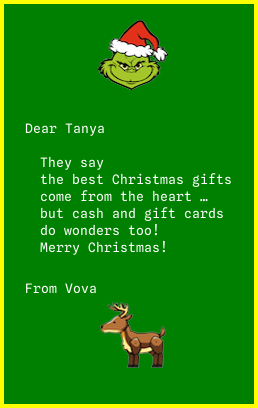
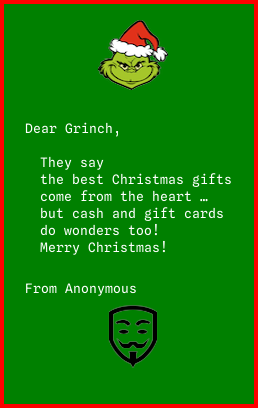
readme fix

Changed region(s): [[0.0, 0.0, 1.0, 1.0], [0.2481, 0.6765, 0.6512, 0.9118], [0.2481, 0.2941, 0.4341, 0.3529]]

diff --git a/app/generator.py b/app/generator.py
@@ -28,7 +28,6 @@ class XmasGenerator:
         self._footer_icon = footer_icon
 
         self._output_file = output_file
-
         self._assets_dir = assets_dir
         self._fonts_dir = fonts_dir
 
@@ -37,54 +36,12 @@ class XmasGenerator:
 
         self._draw = ImageDraw.Draw(self._image)
 
-        self._header_map = {
-            HeaderIcon.hat: self._draw_hat,
-            HeaderIcon.tree: self._draw_tree,
-            HeaderIcon.bell: self._draw_bell,
-            HeaderIcon.grinch: self._draw_grinch,
-            HeaderIcon.gift: self._draw_gift,
-            HeaderIcon.door_deco: self._draw_door_deco,
-        }
-
-        self._footer_map = {
-            FooterIcon.ribbon: self._draw_ribbon,
-            FooterIcon.deer: self._draw_deer,
-            FooterIcon.candy: self._draw_candy,
-        }
-
-    def _draw_hat(self) -> None:
-        icon = Image.open(os.path.join(self._assets_dir, HeaderIcon.hat))
-        icon = icon.resize((60, 60))
-        self._image.paste(icon, (102, 20), icon)
-
-    def _draw_tree(self) -> None:
-        icon = Image.open(os.path.join(self._assets_dir, HeaderIcon.tree))
-        icon = icon.resize((70, 70))
-        self._image.paste(icon, (98, 20), icon)
-
-    def _draw_bell(self) -> None:
-        icon = Image.open(os.path.join(self._assets_dir, HeaderIcon.bell))
-        icon = icon.resize((70, 70))
-        self._image.paste(icon, (98, 20), icon)
-
-    def _draw_grinch(self) -> None:
-        icon = Image.open(os.path.join(self._assets_dir, HeaderIcon.grinch))
-        icon = icon.resize((70, 70))
-        self._image.paste(icon, (98, 20), icon)
-
-    def _draw_gift(self) -> None:
-        icon = Image.open(os.path.join(self._assets_dir, HeaderIcon.gift))
-        icon = icon.resize((70, 70))
-        self._image.paste(icon, (98, 20), icon)
-
-    def _draw_door_deco(self) -> None:
-        icon = Image.open(os.path.join(self._assets_dir, HeaderIcon.door_deco))
-        icon = icon.resize((70, 70))
-        self._image.paste(icon, (98, 20), icon)
-
     def _draw_header(self) -> None:
-        self._header_map[self._header_icon]()
-        msg = f'Dear {self._receiver}'
+        icon = Image.open(os.path.join(self._assets_dir, self._header_icon))
+        icon = icon.resize((70, 70))
+        self._image.paste(icon, (98, 20), icon)
+
+        msg = f'Dear {self._receiver},'
 
         self._draw.text((25, 120), msg, self._text_color, font=self._font)
 
@@ -98,28 +55,15 @@ do wonders too!
 Merry Christmas!
 
 '''
-
         self._draw.text((40, 120), msg, self._text_color, font=self._font)
-
-    def _draw_ribbon(self) -> None:
-        icon = Image.open(os.path.join(self._assets_dir, FooterIcon.ribbon))
-        icon = icon.resize((70, 70))
-        self._image.paste(icon, (98, 300), icon)
-
-    def _draw_deer(self) -> None:
-        icon = Image.open(os.path.join(self._assets_dir, FooterIcon.deer))
-        icon = icon.resize((70, 70))
-        self._image.paste(icon, (98, 300), icon)
-
-    def _draw_candy(self) -> None:
-        icon = Image.open(os.path.join(self._assets_dir, FooterIcon.candy))
-        icon = icon.resize((70, 70))
-        self._image.paste(icon, (98, 300), icon)
 
     def _draw_footer(self) -> None:
         msg = f'From {self._gifter}'
         self._draw.text((25, 280), msg, self._text_color, font=self._font)
-        self._footer_map[self._footer_icon]()
+
+        icon = Image.open(os.path.join(self._assets_dir, self._footer_icon))
+        icon = icon.resize((70, 70))
+        self._image.paste(icon, (98, 300), icon)
 
     def draw(self) -> None:
         self._draw_header()

diff --git a/main.py b/main.py
@@ -5,23 +5,23 @@ if __name__ == '__main__':
     border_color = input('Enter border color [default == \'red\']:\n').strip() or 'red'
     canvas_color = input('Enter canvas color [default == \'green\']:\n').strip() or 'green'
     gifter = input("Enter gifter name [default == \'Anonymous\']:\n") or 'Anonymous'
-    receiver = input('Enter name of the receiver [default == \'Anonymous\']:\n').strip() or 'Anonymous'
+    receiver = input('Enter name of the receiver [default == \'Grinch\']:\n').strip() or 'Grinch'
     output_file = input("enter output file name [default == \'card\']: \n").strip() or 'card'
 
     header_icons = '''
-  1)Santa Hat [default]
-  2)Xmas Tree
-  3)Bell
-  4)Grinch
+  1)Grinch [default]
+  2)Santa Hat
+  3)Xmas Tree
+  4)Bell
   5)Gift
   6)Xmas Door Deco
   '''
 
     header_map = {
-        '1': HeaderIcon.hat,
-        '2': HeaderIcon.tree,
-        '3': HeaderIcon.bell,
-        '4': HeaderIcon.grinch,
+        '1': HeaderIcon.grinch,
+        '2': HeaderIcon.hat,
+        '3': HeaderIcon.tree,
+        '4': HeaderIcon.bell,
         '5': HeaderIcon.gift,
         '6': HeaderIcon.door_deco,
     }
@@ -35,16 +35,18 @@ if __name__ == '__main__':
             break
 
     footer_icons = '''
-  1)Ribbon [default]
-  2)Deer
-  3)Candy
+    1)Anonymous [default]
+    2)Deer
+    3)Ribbon
+    4)Candy
 
   '''
 
     footer_map = {
-        '1': FooterIcon.ribbon,
+        '1': FooterIcon.anonymous,
         '2': FooterIcon.deer,
-        '3': FooterIcon.candy,
+        '3': FooterIcon.ribbon,
+        '4': FooterIcon.candy,
     }
 
     footer_icon = None

diff --git a/app/enums.py b/app/enums.py
@@ -2,15 +2,16 @@ from enum import Enum
 
 
 class HeaderIcon(str, Enum):
+    grinch = 'grinch.png'
     hat = 'hat.png'
     tree = 'tree.png'
     bell = 'bell.png'
-    grinch = 'grinch.png'
     gift = 'gift.png'
     door_deco = 'door_deco.png'
 
 
 class FooterIcon(str, Enum):
-    ribbon = 'ribbon.png'
+    anonymous = 'anonymous.png'
     deer = 'deer.png'
+    ribbon = 'ribbon.png'
     candy = 'candy.png'

diff --git a/README.md b/README.md
@@ -40,7 +40,7 @@ poetry install
 <h5><b>Choose your icon, input a number and enjoy.</b></h5>
 
 <h3> Preview </h3>
-<p><img src="card.png"></p>
+<p><img src="demo_card.png"></p>
 <h5> <p>Thanks to <a href="https://icons8.com">Icons 8</a> &amp; <a href="https://pngimg.com/">pngimg</a> for the awesome icons ! </p> </h5>
 <h5> <p>Thanks to <a href="https://github.com/httpanand">httpanand</a>  for the idea ! </p> </h5>
 <h5> <b> ⭐ Please star this repo if you like ! </b> </h5>
